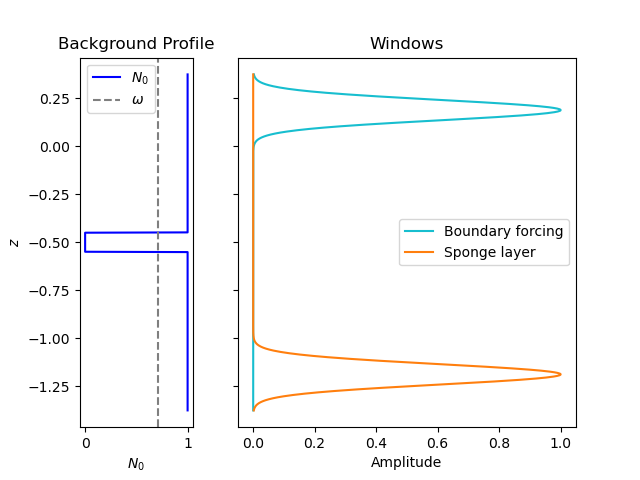
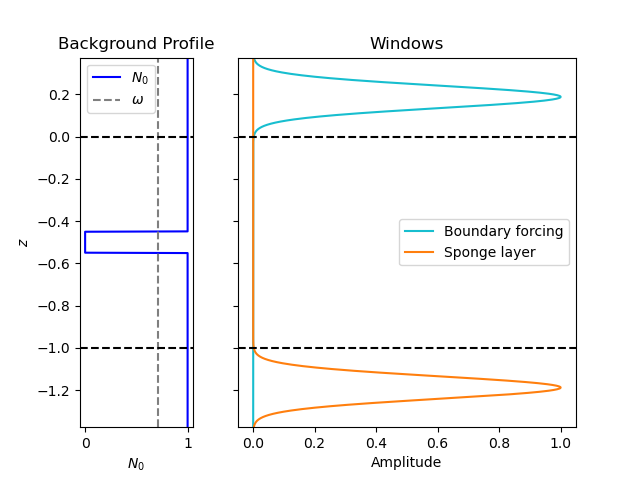
Now plots display bounds on window plots

diff --git a/helper_functions.py b/helper_functions.py
@@ -33,17 +33,24 @@ def BP_n_steps(n, z, z0_dis, zf_dis, th):
                 BP_array[j] = 0
     return BP_array
 
+def add_dis_bounds(ax, z0_dis=None, zf_dis=None):
+    line_color = my_clrs['k']
+    if z0_dis != None:
+        ax.axhline(y=z0_dis, color=line_color, linestyle='--')
+        ax.axhline(y=zf_dis, color=line_color, linestyle='--')
+
 # Plot background profile
-def plot_BP(ax, BP, z, omega=None):
+def plot_BP(ax, BP, z, omega=None, z0_dis=None, zf_dis=None):
     ax.plot(BP, z, color=my_clrs['N_0'], label=r'$N_0$')
     ax.set_xlabel('$N_0$')
     ax.set_ylabel(r'$z$')
     ax.set_title(r'Background Profile')
+    ax.set_ylim([min(z),max(z)])
     if omega != None:
         ax.axvline(x=omega, color=my_clrs['tab:gray'], linestyle='--', label=r'$\omega$')
         ax.legend()
 
-def plot_v_profiles(BP_array, bf_array, sp_array, z, omega):
+def plot_v_profiles(BP_array, bf_array, sp_array, z, omega=None, z0_dis=None, zf_dis=None):
     # This dictionary makes each subplot have the desired ratios
     # The length of heights will be nrows and likewise len(widths)=ncols
     plot_ratios = {'height_ratios': [1],
@@ -52,9 +59,11 @@ def plot_v_profiles(BP_array, bf_array, sp_array, z, omega):
     fig, axes = plt.subplots(nrows=1, ncols=2, gridspec_kw=plot_ratios, sharey=True)
     #
     plot_BP(axes[0], BP_array, z, omega)
+    add_dis_bounds(axes[0], z0_dis, zf_dis)
     #
     axes[1].plot(bf_array, z, color=my_clrs['bf'], label='Boundary forcing')
     axes[1].plot(sp_array, z, color=my_clrs['sp'], label='Sponge layer')
+    add_dis_bounds(axes[1], z0_dis, zf_dis)
     axes[1].set_xlabel('Amplitude')
     #axes[1].set_ylabel(r'$z$')
     axes[1].set_title(r'Windows')

diff --git a/main.py b/main.py
@@ -107,7 +107,6 @@ problem.substitutions['fb'] = "BFb*cos(m*z - omega*t)*ramp"
 BP = domain.new_field(name = 'BP')
 BP_array = hf.BP_n_steps(sbp.n_steps, z, sbp.z0_dis, sbp.zf_dis, sbp.step_th)
 BP['g'] = BP_array
-#BP_array(n_steps, z, z0_dis, zf_dis, step_th)
 problem.parameters['BP'] = BP
 
 ###############################################################################
@@ -138,7 +137,7 @@ for fld in ['u', 'w', 'b']:#, 'p']:
 ###############################################################################
 # Plotting windows
 if sbp.plot_windows:
-    hf.plot_v_profiles(BP_array, sbp.win_bf_array, sbp.win_sp_array, z, omega)
+    hf.plot_v_profiles(BP_array, sbp.win_bf_array, sbp.win_sp_array, z, omega, sbp.z0_dis, sbp.zf_dis)
 
 ###############################################################################
 # Define equations
